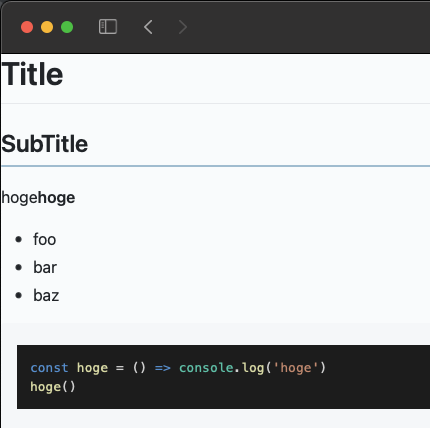
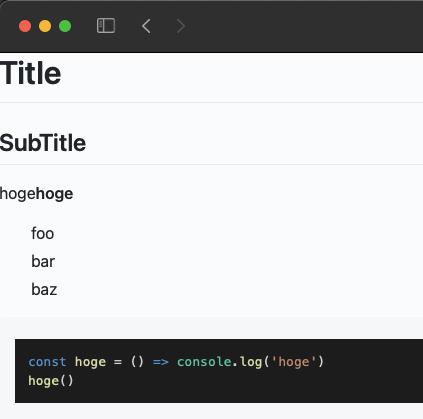
add: 記事追加

diff --git a/src/pages/_app.tsx b/src/pages/_app.tsx
@@ -44,11 +44,17 @@ export default function MyApp({ Component, pageProps }: AppProps) {
             ul {
               list-style: disc;
             }
+            ol {
+              list-style: auto;
+            }
             a:link {
               text-decoration: none;
             }
             p {
               line-height: 1.8;
+            }
+            h2 {
+              border-bottom: 2px solid ${colors.blue100};
             }
           }
         `}

diff --git a/src/posts/20211022-reactmd/reactmd.md b/src/posts/20211022-reactmd/reactmd.md
@@ -1,0 +1,239 @@
+---
+created: '2020-10-24'
+updated: ''
+title: mdで書いた記事をブログに表示したい、けどCSSはサボりたい
+visual: 'react'
+tags: ['React']
+---
+
+このブログを作る時「**mdで書いた記事を綺麗にスタイル整ったページとして表示するのめんどいな〜HTMLにパースした後記事中全部のタグにスタイルあてるとか無理〜〜**」と思って**楽してできるやり方を頑張って探した**。  
+結論として以下二つの神パッケージを使うことでかなり楽できた。  
+
+**react-markdown**
+<https://github.com/remarkjs/react-markdown>  
+
+**github-markdown-css**
+<https://github.com/sindresorhus/github-markdown-css>  
+
+&nbsp;
+
+## 要件  
+
+1. mdで書いた記事をHTMLにパースする。`# Title`　→　`<h1>Title</h1>`みたいなイメージ。
+1. パースした後のHTMLには当然スタイルをあてるが**全部のタグに対してCSSなんて書きたくない**。
+1. ブラウザごとに見え方変わるのは嫌なので**reset.cssは絶対に入れたい**。
+1. ページのスタイリングはサボりたいけど**シンタックスハイライトのスタイルにはこだわりたい**。
+
+&nbsp;
+
+## react-markdown
+
+md形式のテキストをHTMLに変換してくれるパッケージ。  
+似たようなものとして`remark`があり、Next.jsのチュートリアル（実際にNext.jsでブログを作るやつ）では`remark`が採用されている。  
+
+<https://github.com/remarkjs/remark>  
+
+このブログはNext.jsのチュートリアルで作成したブログを魔改造して作ったものなので当初`remark`を使用していたが、`react-markdown`の方が**シンタックスハイライトをあてるのが楽そう**だったため乗り換えた。  
+「スタイルあてるの無理〜〜」とか言っておきながらシンタックスハイライトにはこだわりたい。  
+HTMLに変換するだけなら正直どっちでも良い気がする。強いて言えば`react-markdown`なら`dangerouslySetInnerHTML`を書かなくて良いので精神衛生上良いかもしれない。  
+
+使い方はかなり簡単
+
+```tsx
+import React, { VFC } from 'react'
+import ReactMarkdown from 'react-markdown'
+import 'reset-css'
+
+const Hello: VFC = () => {
+  const md = `
+# Title
+
+## SubTitle
+
+hoge**hoge**
+
+- foo
+- bar
+- baz
+
+\`\`\`ts
+const hoge = () => console.log('hoge')
+hoge()
+\`\`\`
+`
+
+  return <ReactMarkdown>{md}</ReactMarkdown>
+}
+
+export default Hello
+
+```
+
+上記の場合以下のHTMLに変換される。  
+
+```html
+<h1>Title</h1>
+<h2>SubTitle</h2>
+<p>hoge<strong>hoge</strong></p>
+<ul>
+  <li>foo</li>
+  <li>bar</li>
+  <li>baz</li>
+</ul>
+<pre>
+  <code class="language-ts">
+    const hoge = () =&gt; console.log(&#x27;hoge&#x27;)
+    hoge()
+  </code>
+</pre>
+```
+
+しれっと`reset.css`もimportしてるので、この時点では以下のような状態。
+
+![no-style](https://raw.githubusercontent.com/TakahiroHimi/blog.owlcode.net/main/src/posts/20211022-reactmd/no-style.png)  
+
+とりあえずここまでで要件の1と3は満たした。
+
+&nbsp;
+
+## github-markdown-css
+
+<span style="font-size: 1.2rem">**神パッケージ**</span>  
+パッケージというか、ただのCSS。  
+これをimportしてクラス名`markdown-body`をつけるだけで、**GitHubでIssueやプルリクのコメントをmdで書いてプレビューした時と同じスタイルがあたる**。  
+つまり**これだけでCSSを一切書かかなくても勝手にスタイルが整う**。  
+
+先程のコードに実際に入れてみる。
+
+```ts
+import 'github-markdown-css'
+import React, { VFC } from 'react'
+import ReactMarkdown from 'react-markdown'
+import 'reset-css'
+
+const Hello: VFC = () => {
+  const md = `
+# Title
+
+## SubTitle
+
+hoge**hoge**
+
+- foo
+- bar
+- baz
+
+\`\`\`ts
+const hoge = () => console.log('hoge')
+hoge()
+\`\`\`
+`
+
+  return (
+    <div className="markdown-body">
+      <ReactMarkdown>{md}</ReactMarkdown>
+    </div>
+  )
+}
+
+export default Hello
+```
+
+この時点で以下のような状態になる。
+
+![styled](https://raw.githubusercontent.com/TakahiroHimi/blog.owlcode.net/main/src/posts/20211022-reactmd/styled.png)
+
+これで**CSSは書きたく無いがスタイルは整えたい**という要件2を満たした。  
+ただし`reset.css`の影響で`list-style`など一部プロパティが表示されないため、必要に応じて自分でスタイルを書く必要はある。  
+このブログでは（現時点では）スタイリングライブラリに`emotion`を使用しているため、`_app.tsx`でGlobalなスタイルを定義をする際に`markdown-body`へのスタイルのカスタマイズを書いている。  
+（前述のlist-styleの追加やline-heightの調整など）
+
+<https://github.com/TakahiroHimi/blog.owlcode.net/blob/main/src/pages/_app.tsx>
+
+このパッケージはそもそもただのCSSなので、中身を書き換えてプロジェクトのソースの一部として管理してしまっても良いかもしれない。  
+ライセンス云々は調べてないのでやる方は自己責任で。  
+
+&nbsp;
+
+## シンタックスハイライトを実装する
+
+現時点ではコードが非常に見づらいのでシンタックスハイライトを実装する。  
+これについては**実装方法がreact-markdownのリポジトリのREADMEに記載されている**。  
+記載されているものをそのまま実装すると自分の環境ではESLintのエラー等で怒られたので、諸々修正すると以下のようなコードになった。  
+
+```ts
+import 'github-markdown-css'
+import React, { VFC } from 'react'
+import ReactMarkdown from 'react-markdown'
+import { Prism as SyntaxHighlighter } from 'react-syntax-highlighter'
+import { vscDarkPlus } from 'react-syntax-highlighter/dist/cjs/styles/prism'
+import 'reset-css'
+
+const Hello: VFC = () => {
+  const md = `
+# Title
+
+## SubTitle
+
+hoge**hoge**
+
+- foo
+- bar
+- baz
+
+\`\`\`ts
+const hoge = () => console.log('hoge')
+hoge()
+\`\`\`
+`
+
+  return (
+    <div className="markdown-body">
+      <ReactMarkdown
+        components={{
+          code({ inline, className, children, ...props }) {
+            const match = /language-(\w+)/.exec(className || '')
+            return !inline && match ? (
+              <SyntaxHighlighter style={vscDarkPlus} language={match[1]} PreTag="div">
+                {String(children).replace(/\n$/, '')}
+              </SyntaxHighlighter>
+            ) : (
+              <code className={className} {...props}>
+                {children}
+              </code>
+            )
+          },
+        }}
+      >
+        {md}
+      </ReactMarkdown>
+    </div>
+  )
+}
+
+export default Hello
+```
+
+(実際には`component`propsに渡す内容は[別ファイルに分けている](https://github.com/TakahiroHimi/blog.owlcode.net/blob/main/src/components/md/CodeBlock.tsx))  
+
+表示するとこう
+
+![syntax-highlight](https://raw.githubusercontent.com/TakahiroHimi/blog.owlcode.net/main/src/posts/20211022-reactmd/syntax-highlight.png)
+
+`SyntaxHighlighter`コンポーネントの`style`propsの内容を変えることでシンタックスハイライトの色を変更することができる。  
+色のサンプルは[こちら](https://react-syntax-highlighter.github.io/react-syntax-highlighter/demo/)から確認可能だが、設定可能な全ての色が掲載されているわけでは無い模様。  
+かなり種類が多いので好みのものを選ぶ。  
+`component`propsに渡す内容をゴリゴリカスタマイズすることで**コードブロック左上にファイル名やパスを表示**したり、**コード差分を表示**することもできるっぽい。  
+
+<https://goodlife.tech/posts/react-markdown-code-highlight.html>
+
+これがあると一気に読みやすくなるのでそのうちやりたいな〜と思っている。  
+ということで要件4もクリアできた。  
+
+&nbsp;
+
+## End
+
+自分の中では相当楽できたと思ってるけど、ブログ自作した人たちってこの辺どうしてるのか知りたい。  
+シンタックスハイライトは無理だとしても、その他の記事部分は「自作ブログなんだから当然スタイルも全部自分であてるでしょ！」的な考えで全部あててるのかな。  
+「**スタイルあてるのとことんサボりたい〜〜**」って人にはこの記事で紹介した実装がオススメです。  
